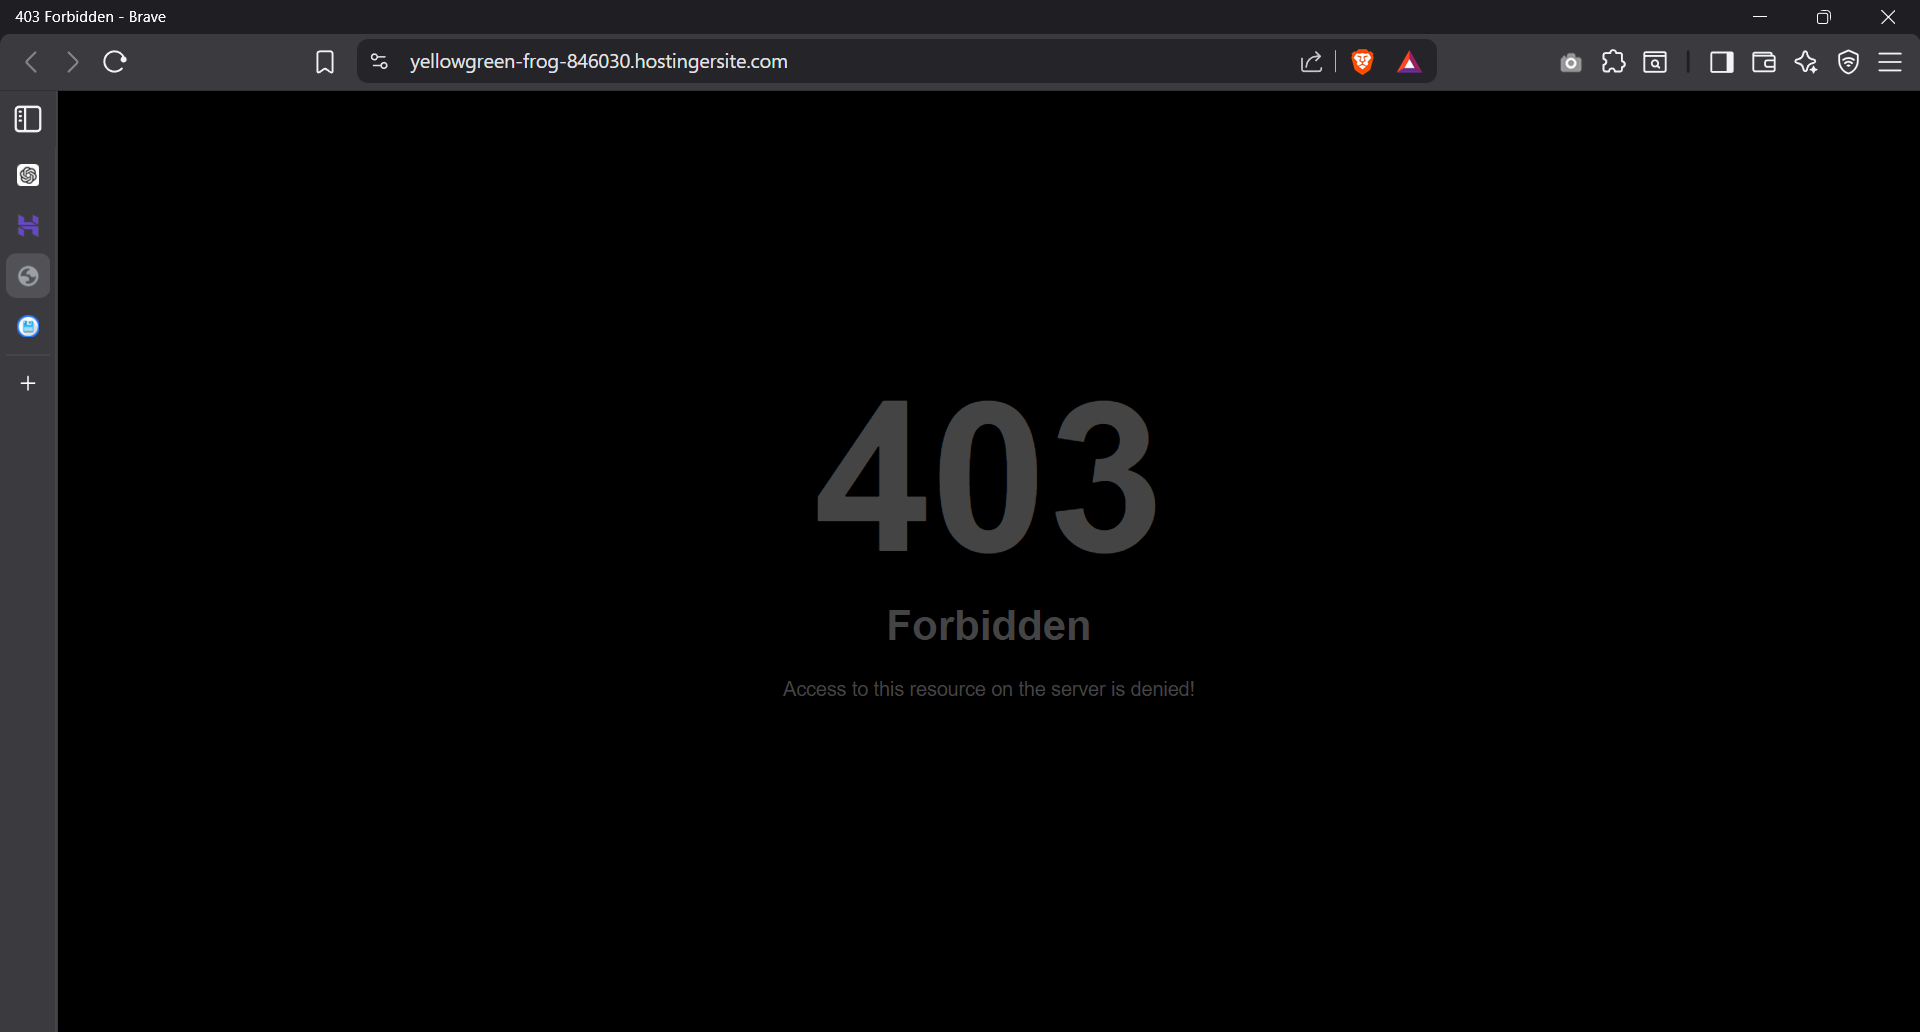
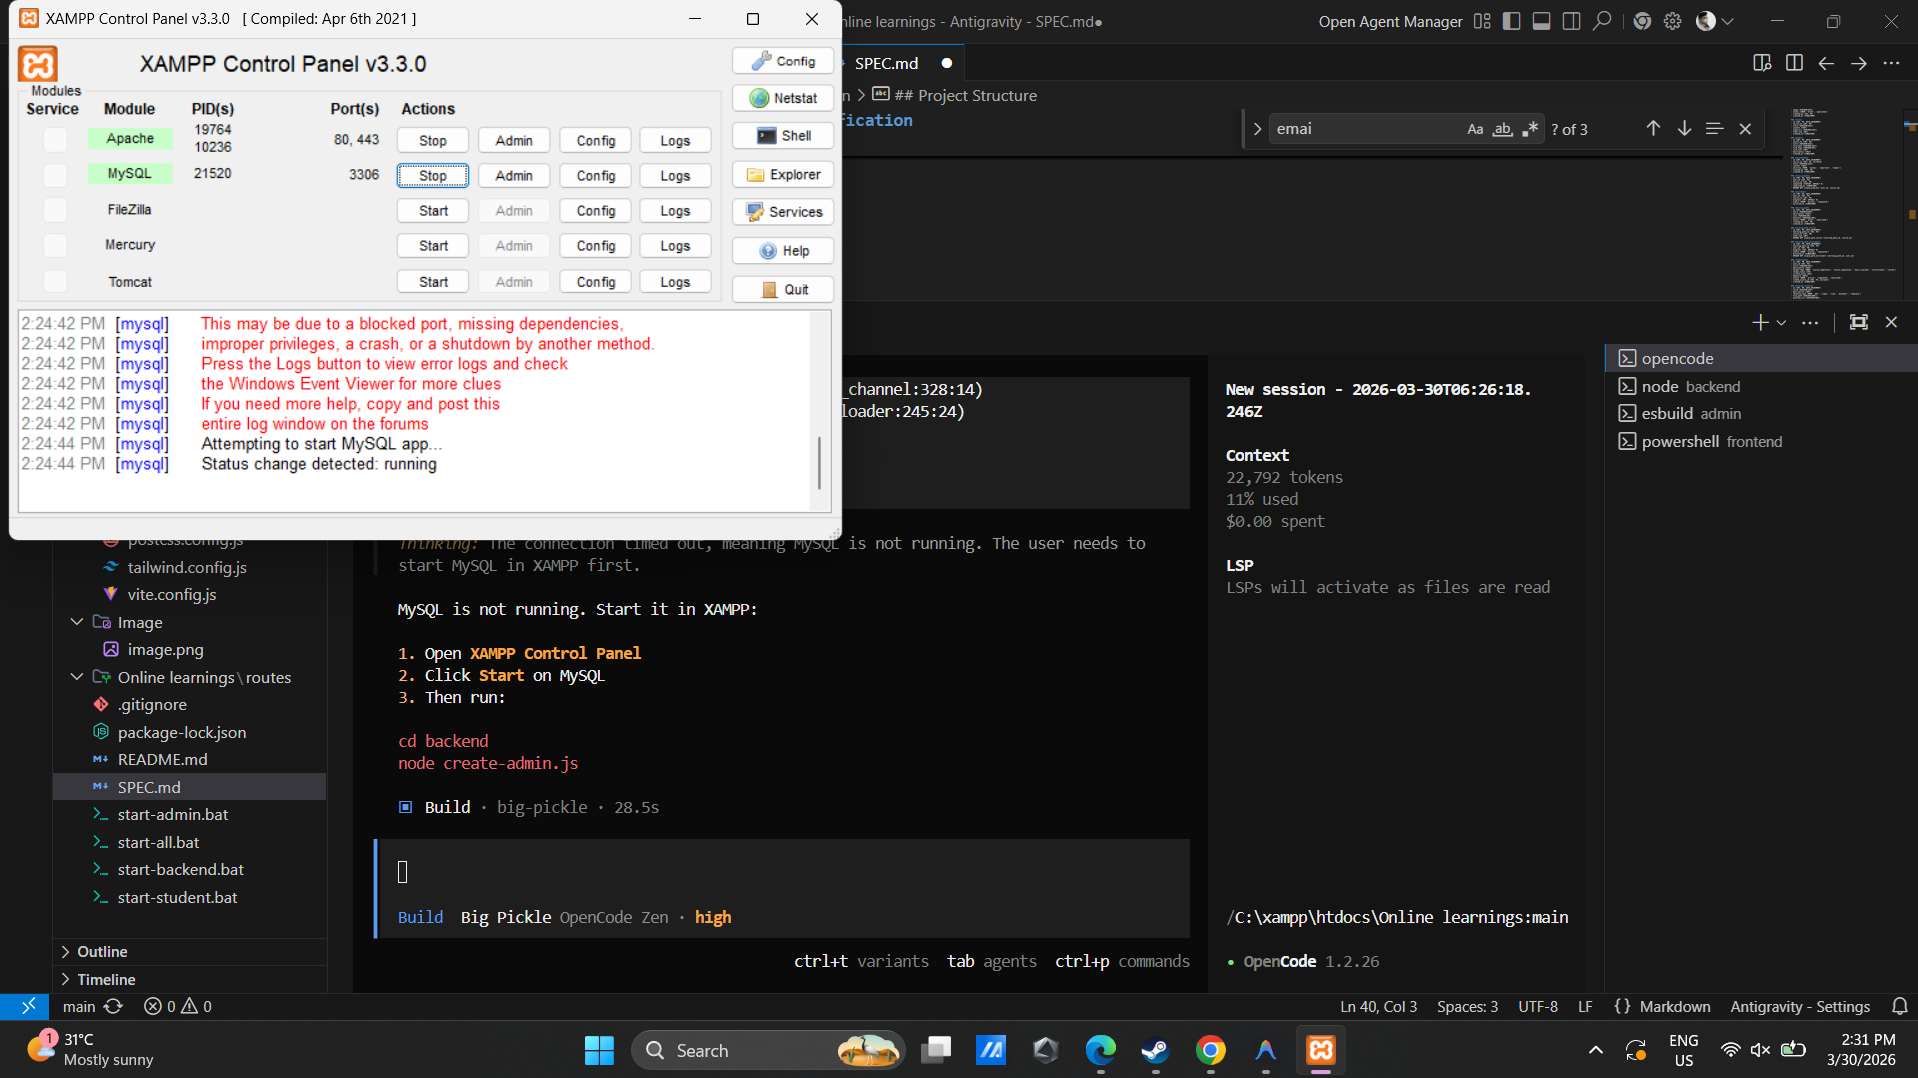
latest

diff --git a/backend/test-db.js b/backend/test-db.js
@@ -1,0 +1,21 @@
+const mysql = require('mysql2/promise');
+
+async function test() {
+  try {
+    const connection = await mysql.createConnection({
+      host: '127.0.0.1',
+      port: 3306,
+      user: 'root',
+      password: '',
+      family: 4
+    });
+    console.log('Connected!');
+    const [rows] = await connection.query('SHOW DATABASES');
+    console.log('Databases:', rows);
+    await connection.end();
+  } catch (err) {
+    console.log('Error:', err.message);
+  }
+}
+
+test();
